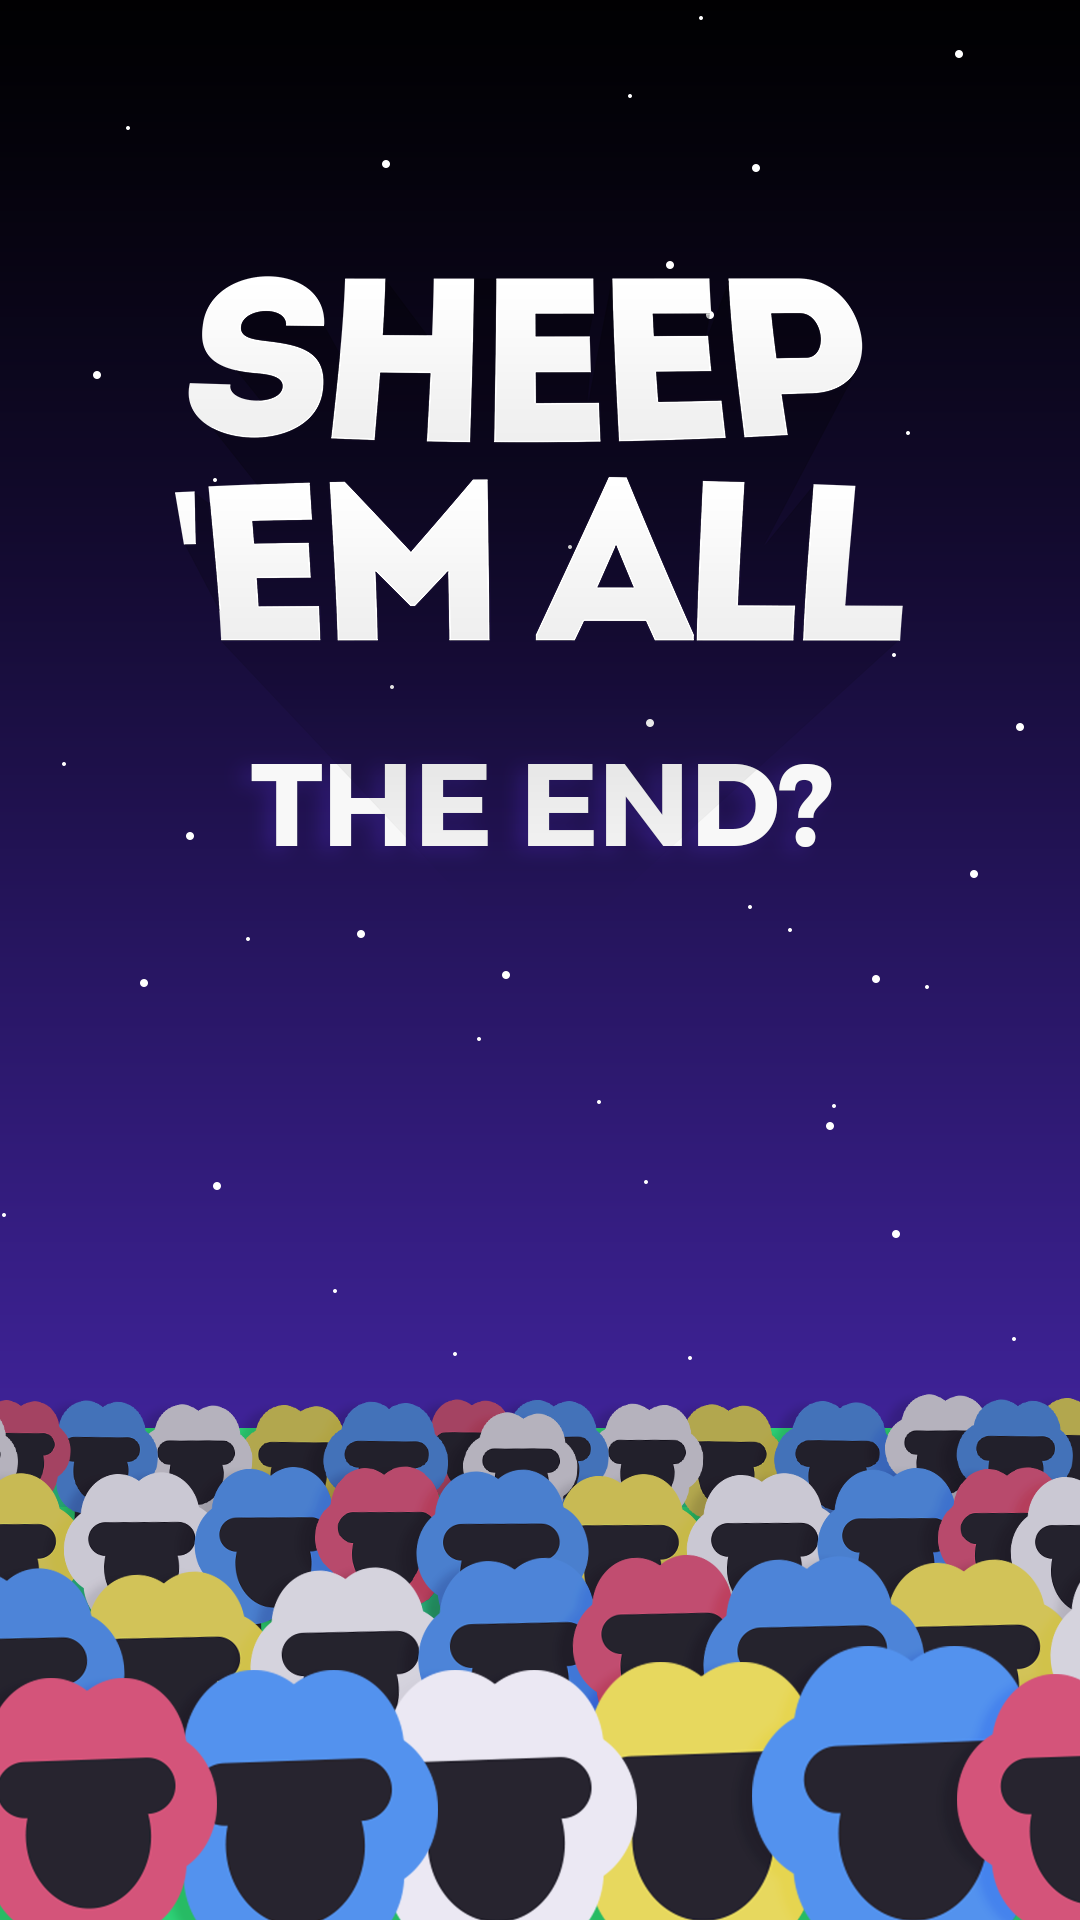
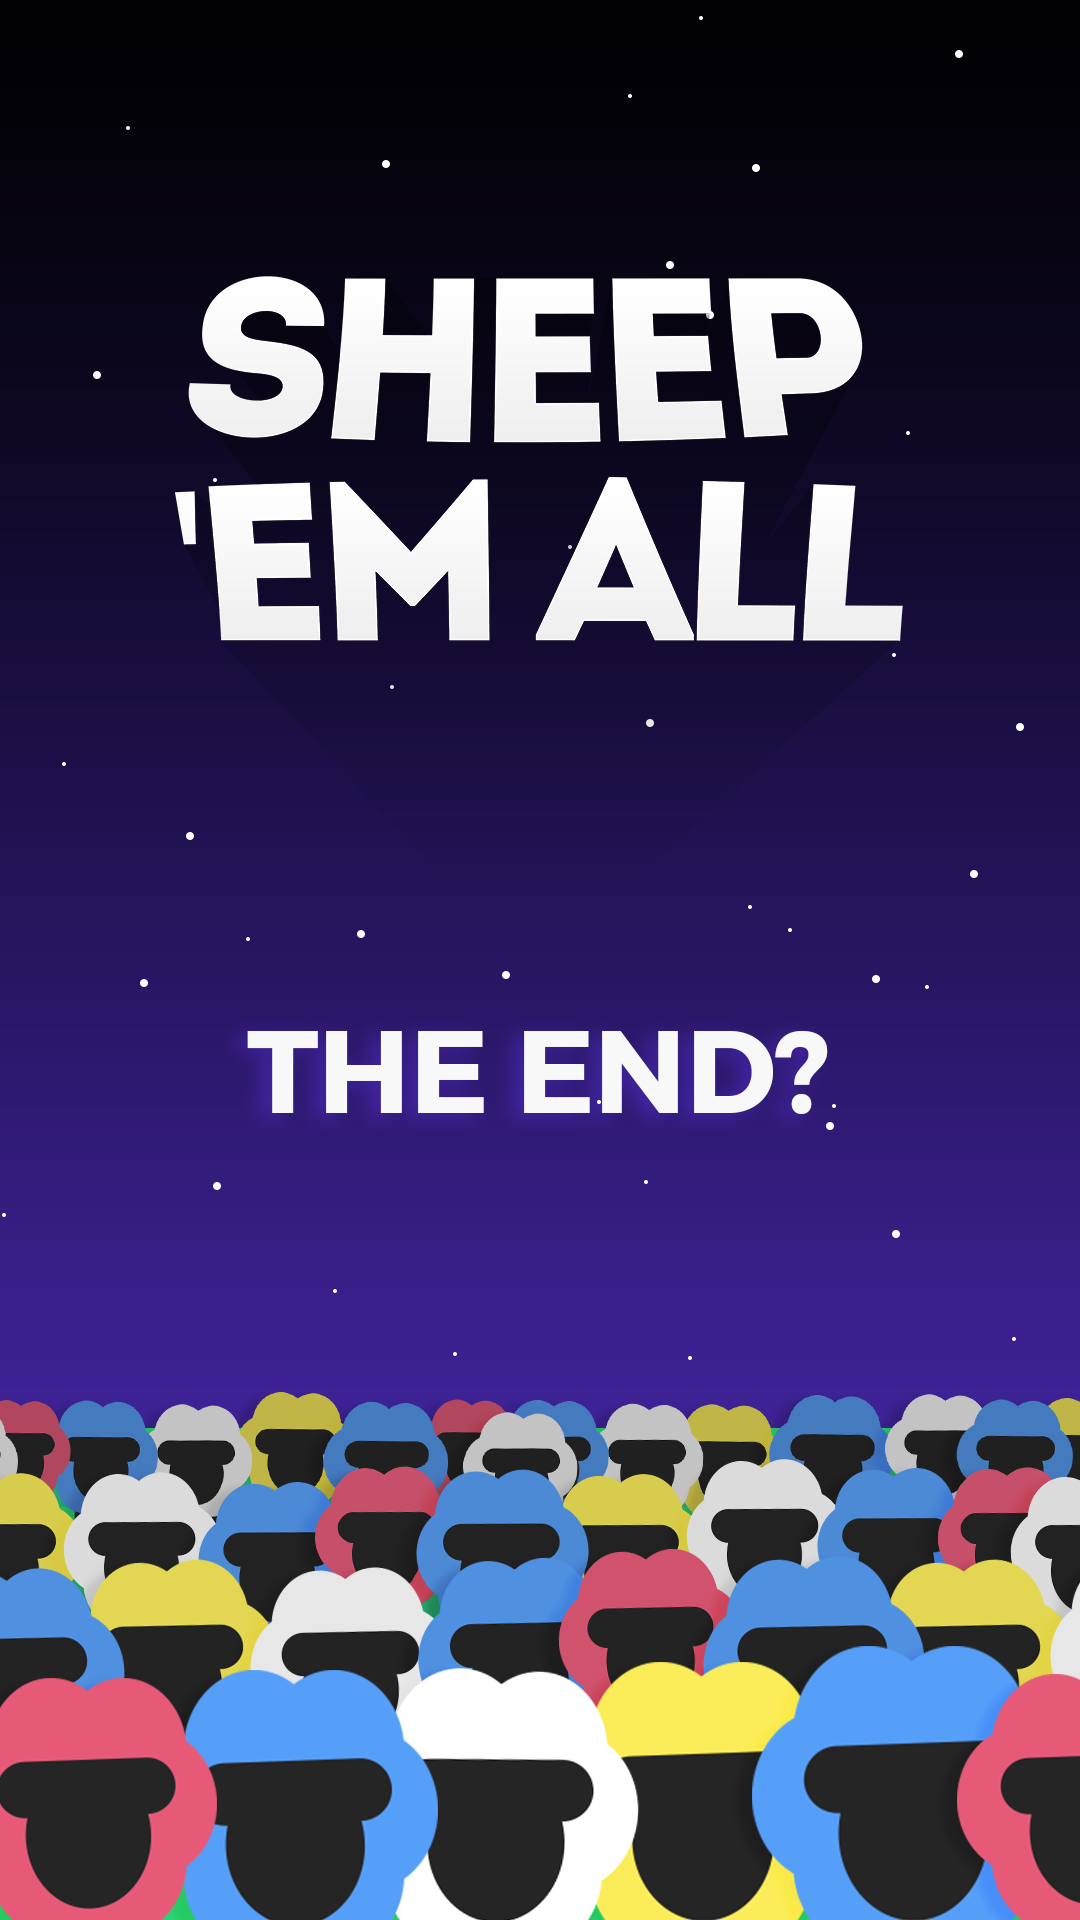
Fixed the fade-in and the fade-out transitions.

diff --git a/core/src/mx/itesm/sheep/EndingScreen.java b/core/src/mx/itesm/sheep/EndingScreen.java
@@ -4,11 +4,9 @@ import com.badlogic.gdx.Gdx;
 import com.badlogic.gdx.graphics.Texture;
 import com.badlogic.gdx.graphics.g2d.Animation;
 import com.badlogic.gdx.graphics.g2d.TextureRegion;
-import com.badlogic.gdx.scenes.scene2d.InputEvent;
 import com.badlogic.gdx.scenes.scene2d.Stage;
 import com.badlogic.gdx.scenes.scene2d.ui.Image;
 import com.badlogic.gdx.scenes.scene2d.ui.ImageButton;
-import com.badlogic.gdx.scenes.scene2d.utils.ClickListener;
 import com.badlogic.gdx.scenes.scene2d.utils.TextureRegionDrawable;
 
 
@@ -20,8 +18,11 @@ public class EndingScreen extends ScreenTemplate {
     private Texture background;
 
     private TextureRegion[] animationFrames;
-    private Animation animation;
-    float elapsedTime;
+    private TextureRegion[] animationFrames2;
+    private Animation fadeInAnimation;
+    private Animation fadeOutAnimation;
+    private float elapsedTime;
+    private float elapsedTime2;
     private Texture fadeIn;
     private ImageButton button;
 
@@ -39,14 +40,24 @@ public class EndingScreen extends ScreenTemplate {
 
 
         TextureRegion[][] tmpFrames = TextureRegion.split(fadeIn,1080,1920);
+
         animationFrames = new TextureRegion[7];
+        animationFrames2 = new TextureRegion[7];
+
         int index = 0;
 
         for (int i = 6; i >= 0 ; i--) {
             animationFrames[index++] = tmpFrames[0][i];
         }
 
-        animation = new Animation(1f/10f,animationFrames);
+        index = 0;
+        for (int i = 0; i < 7; i++) {
+            animationFrames2[index++] = tmpFrames[0][i];
+        }
+
+
+        fadeOutAnimation = new Animation(1f/15f,animationFrames2);
+        fadeInAnimation = new Animation(1f/15f,animationFrames);
     }
 
     private void loadTextures() {
@@ -56,24 +67,11 @@ public class EndingScreen extends ScreenTemplate {
     private void createScene() {
 
         storyStage = new Stage(view);
-
         TextureRegionDrawable trdBackground = new TextureRegionDrawable(new TextureRegion(background));
         Image imgBackground = new Image(trdBackground);
         imgBackground.setPosition(0,0);
         storyStage.addActor(imgBackground);
 
-        TextureRegionDrawable trdHome = new TextureRegionDrawable(new TextureRegion(new Texture("Buttons/unpressed/homeButton.png")));
-        TextureRegionDrawable trdPressedHome = new TextureRegionDrawable(new TextureRegion(new Texture("Buttons/pressed/pressedHomeButton.png")));
-
-        button = new ImageButton(trdHome,trdPressedHome);
-        button.setPosition(WIDTH/2,HEIGHT/2);
-        storyStage.addActor(button);
-        button.addListener(new ClickListener(){
-            @Override
-            public void clicked(InputEvent event, float x, float y) {
-                sheepEm.setScreen(new CreditsScreen(sheepEm));
-            }
-        });
     }
 
     @Override
@@ -83,10 +81,21 @@ public class EndingScreen extends ScreenTemplate {
         batch.begin();
 
         elapsedTime += Gdx.graphics.getDeltaTime();
-        TextureRegion sheeptr = (TextureRegion) animation.getKeyFrame(elapsedTime,false);
-        batch.draw(sheeptr,0,0);
+        TextureRegion fadeIn = (TextureRegion) fadeInAnimation.getKeyFrame(elapsedTime,false);
+        batch.draw(fadeIn,0,0);
+
+        if(elapsedTime>=6){
+            elapsedTime2 += Gdx.graphics.getDeltaTime();
+            TextureRegion fadeOut = (TextureRegion) fadeOutAnimation.getKeyFrame(elapsedTime2,false);
+            batch.draw(fadeOut,0,0);
+            System.out.println("Done");
+        }
 
         batch.end();
+
+        if(elapsedTime>=6.8){
+            sheepEm.setScreen(new CreditsScreen(sheepEm));
+        }
 
 
         if(pref.getBoolean("musicOn")){

diff --git a/core/src/mx/itesm/sheep/CreditsScreen.java b/core/src/mx/itesm/sheep/CreditsScreen.java
@@ -37,7 +37,7 @@ public class CreditsScreen extends ScreenTemplate {
 
         TextureRegionDrawable trdCredits = new TextureRegionDrawable(new TextureRegion(credits));
         imgCredits = new Image(trdCredits);
-        imgCredits.setPosition(0,-1920);
+        imgCredits.setPosition(0,-(1920*2));
         creditsScene.addActor(imgCredits);
     }
 
@@ -49,7 +49,7 @@ public class CreditsScreen extends ScreenTemplate {
         batch.setProjectionMatrix(camera.combined);
         timer+= Gdx.graphics.getDeltaTime();
 
-        if(timer>=0.02){
+        if(timer>=0.013){
             imgCredits.setY(imgCredits.getY()+2);
             timer = 0;
         }

diff --git a/core/src/mx/itesm/sheep/StoryScreen.java b/core/src/mx/itesm/sheep/StoryScreen.java
@@ -1,0 +1,8 @@
+package mx.itesm.sheep;
+
+/**
+ * Created by josepablo on 11/25/17.
+ */
+
+public class StoryScreen {
+}
